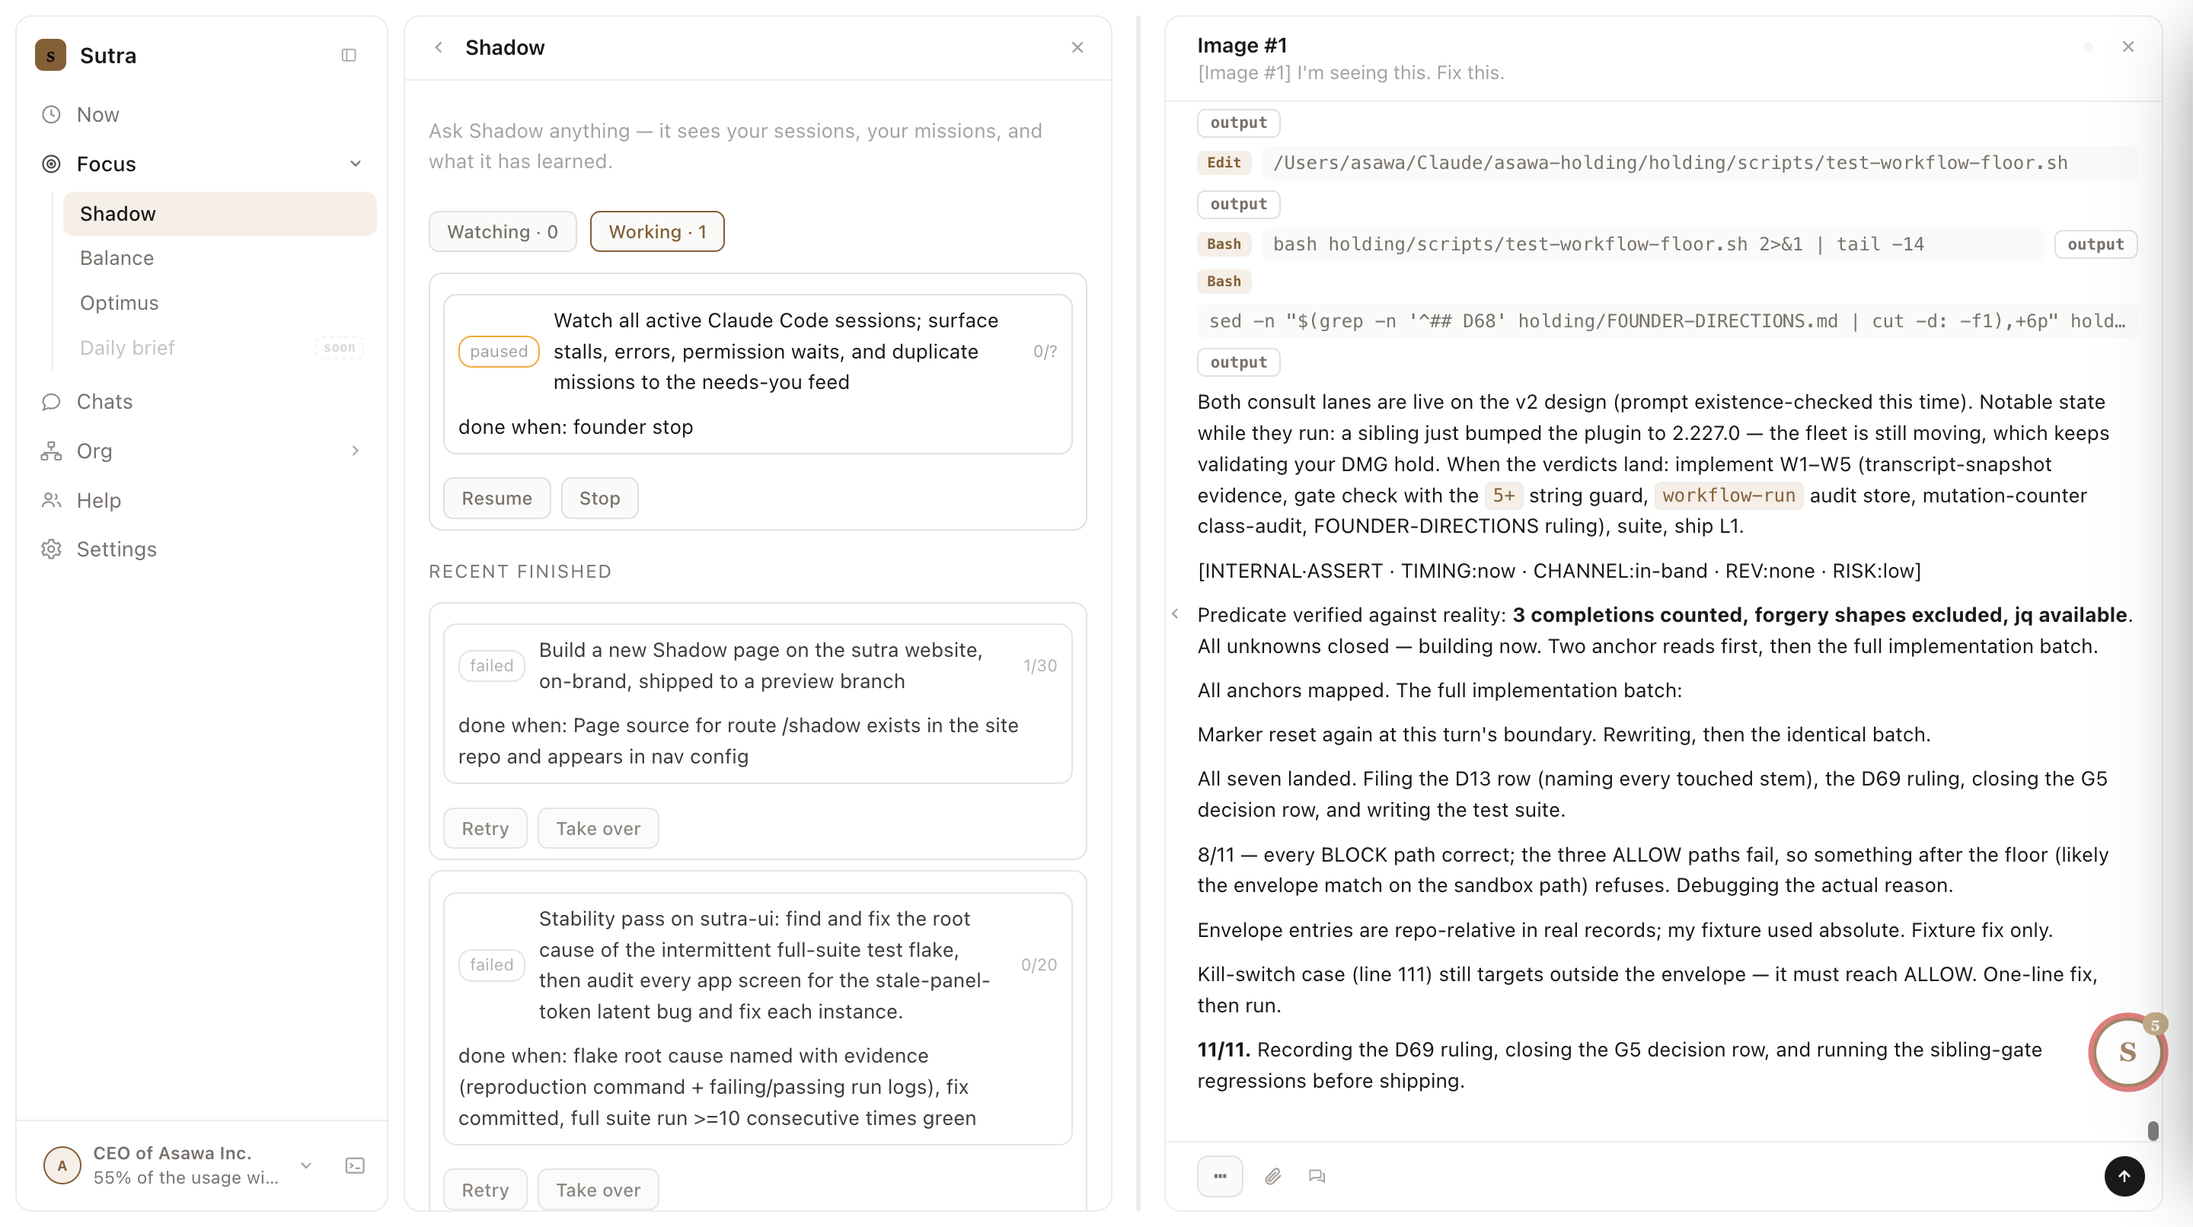
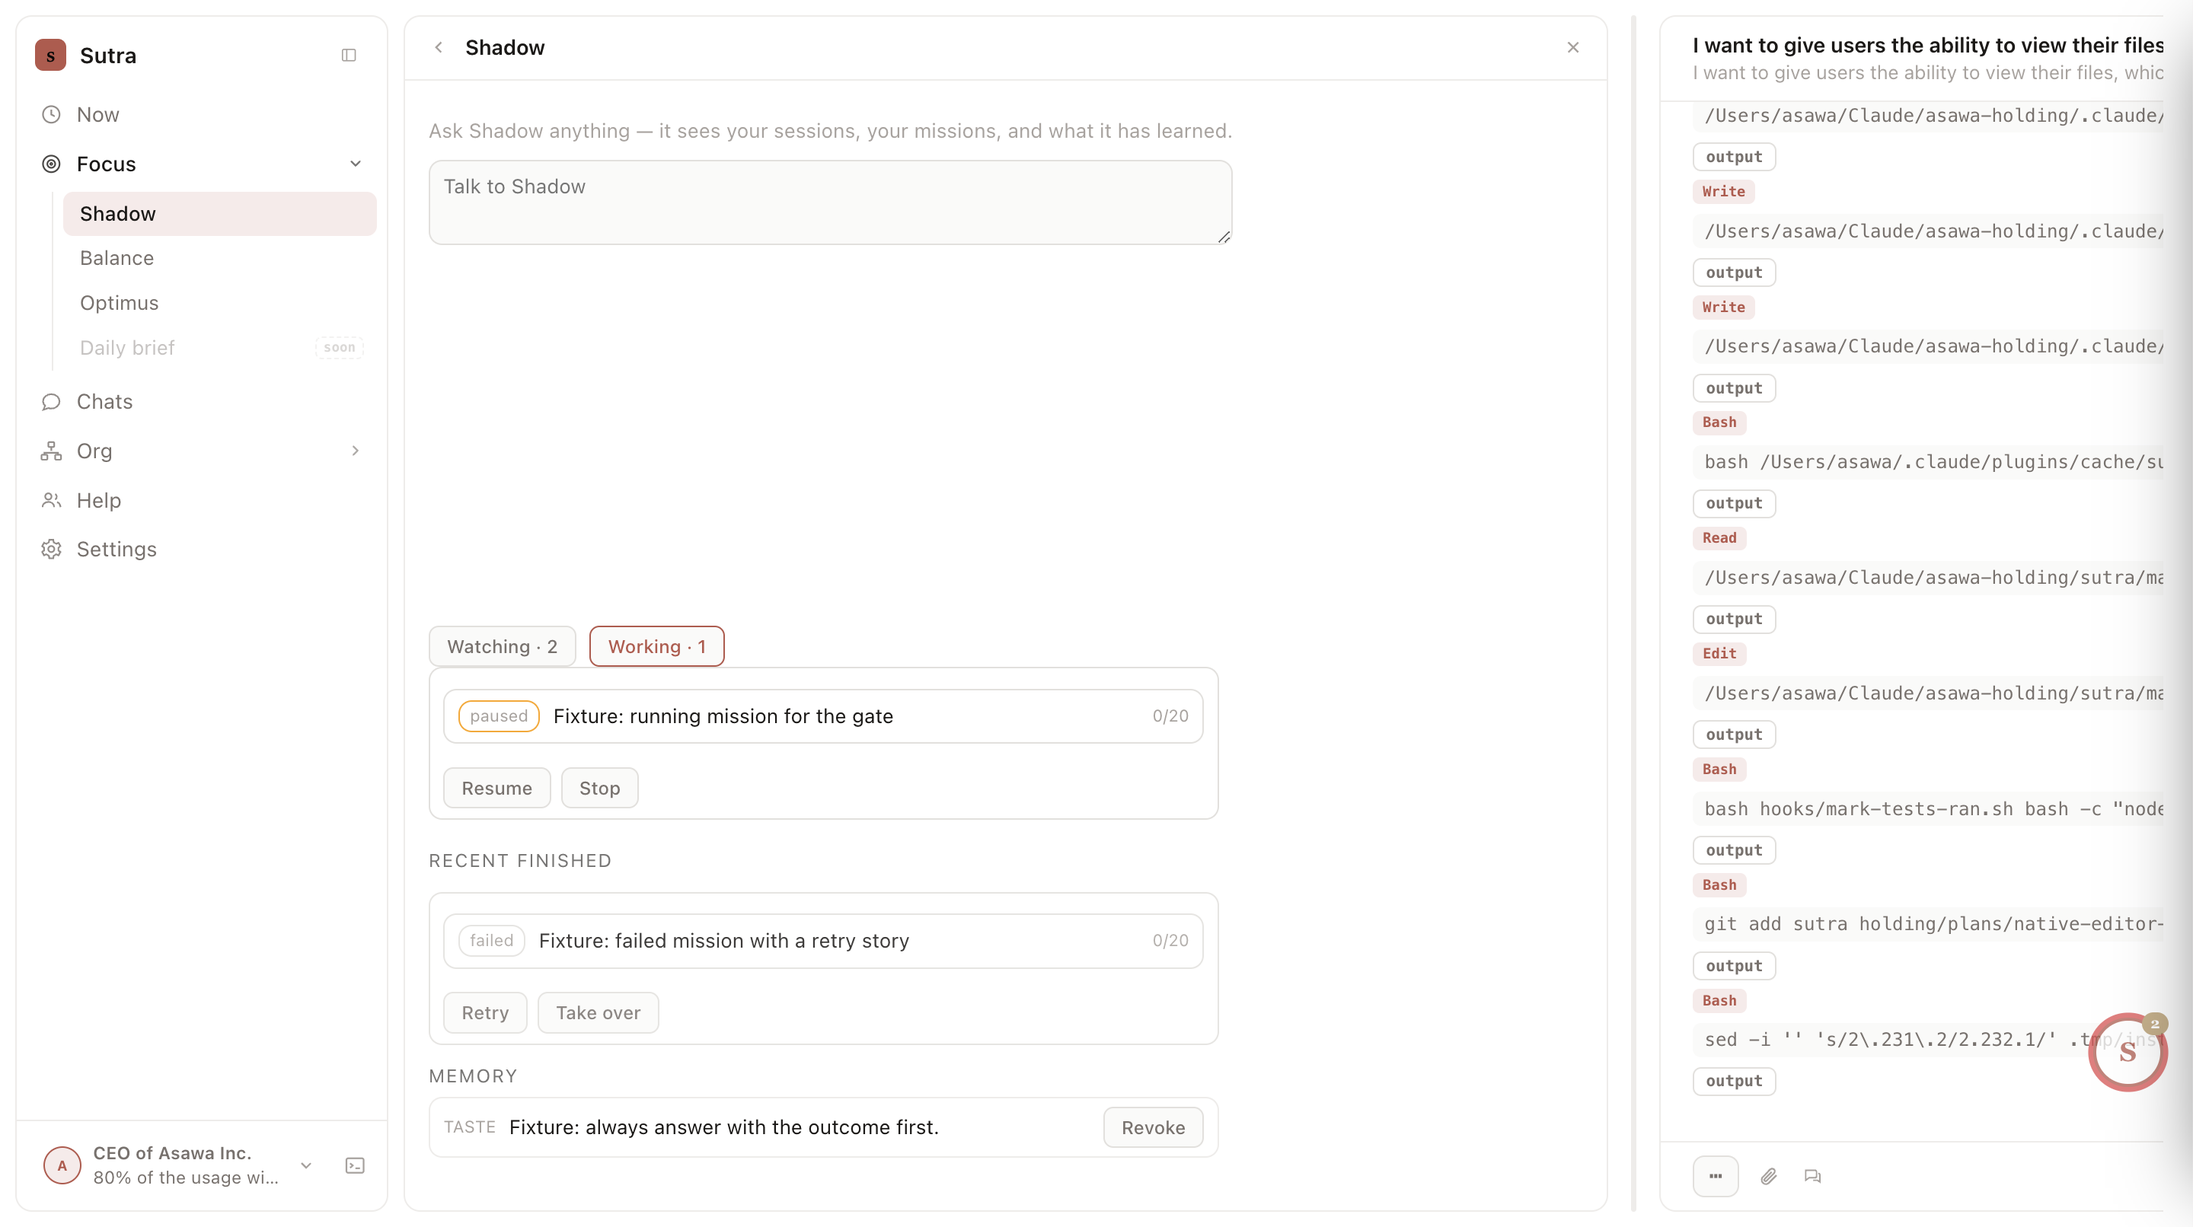
shadow: dead wires fixed + deep-link router + two-column home + auto-watch + gate v1.3
- shadowWatchSet/shadowInstructionAct posted the PATH STRING as the body:
  watch toggles and memory Confirm/Revoke never reached the API. Real
  bodies now; unit-pinned.
- S.pendingDeepLink was consumed nowhere: Open landed on the Focus
  default screen. shadowRouteDeepLink() routes mission links to
  Focus > Shadow (Working tab, row highlighted) and session links to
  Chats; Take-over + Now cards route through it; gate G9 drives the
  click-through every run.
- Two-column Focus > Shadow home per mock v5 screen 2; pane widens via
  explicit class + inline flex (saved inline flex-basis beats classes).
- Auto-watch: panes join Watching at registration (no-op writes, never
  delegates, unwatched.json remembers explicit opt-out).
- Gate v1.3: G9 click-through, G4 real .shbadge element, G2 unique
  data-itemid, error hook after the post-attach reload, QA_SHADOW_HOME
  fixture mode (12/12 deterministic), QA_SCRIPTS multi-lane run.sh.
- Consults folded: codex + deepseek (both CHANGES-REQUIRED).

diff --git a/marketplace/plugin/sutra-ui/static/js/16-shadow-home.js b/marketplace/plugin/sutra-ui/static/js/16-shadow-home.js
@@ -49,8 +49,9 @@ function shadowPlaneHtml(watching, missions, tab){
     return head + `<div class="shplane">${rows ||
       `<div class="shempty">Shadow is not watching any session yet.</div>`}</div>`;
   }
+  const foc = (typeof S !== "undefined" && S.shadowFocusMission) || null;
   const rows = active.map(m => `
-    <div class="shmissionrow" data-shmissionrow="${escAttr(m.id)}">
+    <div class="shmissionrow${m.id === foc ? " shfocused" : ""}" data-shmissionrow="${escAttr(m.id)}">
       ${missionCardHtml(m)}
       <span class="shrowacts">
         ${m.state === "queued" ? `<button class="btn" type="button"
@@ -66,7 +67,7 @@ function shadowPlaneHtml(watching, missions, tab){
   const finished = missions.filter(m =>
     ["failed", "stopped"].includes(m.state)).slice(-5).reverse();
   const fin = finished.map(m => `
-    <div class="shmissionrow shfinished" data-shmissionrow="${escAttr(m.id)}">
+    <div class="shmissionrow shfinished${m.id === foc ? " shfocused" : ""}" data-shmissionrow="${escAttr(m.id)}">
       ${missionCardHtml(m)}
       <span class="shrowacts">
         <button class="btn" type="button" data-shact="retry"
@@ -114,15 +115,24 @@ function shadowHomeHtml(){
   const thread = (S.shadowThread || []).map(t => `
     <div class="shmsg ${t.who === "founder" ? "shmine" : "shshadow"}">
       ${esc(t.text || "")}</div>`).join("");
-  return `<div class="shhome">
-    <div class="shthread">${thread ||
-      `<div class="shempty">Ask Shadow anything \u2014 it sees your
-       sessions, your missions, and what it has learned.</div>`}</div>
-    ${shadowPlaneHtml(S.shadowWatching || [], S.shadowMissions || [],
-                      S.shadowTab)}
-    ${shadowMemoryHtml(S.shadowMemory || [])}
-    <textarea class="shcompose" data-shhomecompose="1"
-      placeholder="Talk to Shadow"></textarea>
+  /* mock v5 screen 2: the chat thread beside ONE plane (+ memory) */
+  const err = S.shadowHomeErr ? `<div class="sherr">Could not reach Shadow
+    just now \u2014 showing what I last knew.
+    <button class="btn" type="button" data-shreload="1">Retry</button></div>` : "";
+  return `<div class="shhome shcols">${err}
+    <div class="shchatcol">
+      <div class="shthread">${thread ||
+        `<div class="shempty">Ask Shadow anything \u2014 it sees your
+         sessions, your missions, and what it has learned.</div>`}</div>
+      <textarea class="shcompose" data-shhomecompose="1"
+        placeholder="Talk to Shadow"></textarea>
+    </div>
+    <div class="shsidecol">
+      ${shadowPlaneHtml(S.shadowWatching || [], S.shadowMissions || [],
+                        S.shadowTab)}
+      <div class="shfinhead">Memory</div>
+      ${shadowMemoryHtml(S.shadowMemory || [])}
+    </div>
   </div>`;
 }
 
@@ -130,19 +140,23 @@ async function loadShadowHome(){
   if (typeof fetch === "undefined" || typeof S === "undefined") return;
   try {
     const st = await fetch("/api/shadow/status");
-    if (!st.ok){ S.shadowHomeDark = true; return; }
+    if (!st.ok){ S.shadowHomeDark = true;
+      if (typeof scheduleRender === "function") scheduleRender(); return; }
     S.shadowHomeDark = false;
+    /* diagnosis fold 2026-08-26: a failed GET must NEVER masquerade as an
+       empty list -- failure is its own rendered state with a Retry */
     const [w, m, i] = await Promise.all([
-      fetch("/api/shadow/watches").then(r => r.ok ? r.json() : { watches: [] }),
-      fetch("/api/shadow/missions").then(r => r.ok ? r.json() : { missions: [] }),
-      fetch("/api/shadow/instructions").then(r => r.ok ? r.json()
-                                                       : { instructions: [] }),
+      fetch("/api/shadow/watches").then(r => r.ok ? r.json() : null),
+      fetch("/api/shadow/missions").then(r => r.ok ? r.json() : null),
+      fetch("/api/shadow/instructions").then(r => r.ok ? r.json() : null),
     ]);
-    S.shadowWatching = w.watches || [];
-    S.shadowMissions = m.missions || [];
-    S.shadowMemory = i.instructions || [];
+    S.shadowHomeErr = !(w && m && i);
+    if (w) S.shadowWatching = w.watches || [];
+    if (m) S.shadowMissions = m.missions || [];
+    if (i) S.shadowMemory = i.instructions || [];
     if (typeof scheduleRender === "function") scheduleRender();
-  } catch (e){ S.shadowHomeDark = true; }
+  } catch (e){ S.shadowHomeDark = true;
+    if (typeof scheduleRender === "function") scheduleRender(); }
 }
 
 if (typeof SCREENS !== "undefined"){
@@ -164,14 +178,16 @@ if (typeof TITLES !== "undefined"){
 if (typeof document !== "undefined" && document.addEventListener){
   document.addEventListener("click", (ev) => {
     const d = (ev.target && ev.target.dataset) || {};
+    if (d.shreload){
+      if (typeof loadShadowHome === "function") loadShadowHome(); return; }
     if (d.shtab){ if (typeof S !== "undefined") S.shadowTab = d.shtab;
       if (typeof scheduleRender === "function") scheduleRender(); return; }
     if (d.shtakeover){
       /* navigation, never mutation: land the founder where the delegate
          session can be resumed by hand */
-      if (typeof S !== "undefined")
-        S.pendingDeepLink = "sutra://session/" + d.shtakeover;
-      if (typeof goDest === "function") goDest("chats");
+      if (typeof shadowRouteDeepLink === "function")
+        shadowRouteDeepLink("sutra://session/" + d.shtakeover);
+      else if (typeof goDest === "function") goDest("chats");
       return;
     }
     if (d.shact && d.shmid) return shadowMissionAct(d.shmid, d.shact);
@@ -199,7 +215,8 @@ if (typeof document !== "undefined" && document.addEventListener){
 async function shadowWatchSet(sid, watch){
   if (typeof fetch === "undefined") return;
   try {
-    await shadowPost("/api/shadow/watches", "/api/shadow/watches");
+    /* the founder's dead-toggle fix: the BODY was the path string */
+    await shadowPost("/api/shadow/watches", { session_id: sid, watch: !!watch });
   } catch (e) {}
   loadShadowHome();
 }
@@ -207,7 +224,8 @@ async function shadowWatchSet(sid, watch){
 async function shadowInstructionAct(id, action){
   if (typeof fetch === "undefined") return;
   try {
-    await shadowPost("/api/shadow/instructions", "/api/shadow/instructions");
+    /* same disease as the watch toggle: Confirm/Revoke never reached the API */
+    await shadowPost("/api/shadow/instructions", { id, action });
   } catch (e) {}
   loadShadowHome();
 }

diff --git a/marketplace/plugin/sutra-ui/static/js/15-shadow-overlay.js b/marketplace/plugin/sutra-ui/static/js/15-shadow-overlay.js
@@ -200,6 +200,42 @@ function bootShadowOverlay(){
   }).catch(() => {});
 }
 
+/* THE deep-link router (the founder's dead-click fix, 2026-08-26): every
+   sutra:// link Shadow hands out lands somewhere real. Wrapped so a partial
+   shell never strands half-set state (deepseek fold). */
+function shadowRouteDeepLink(link){
+  const l = String(link || "");
+  try {
+    let m = l.match(/^sutra:\/\/shadow\/(?:mission\/)?(m-[a-z0-9]+)/);
+    if (m){
+      if (typeof S !== "undefined"){
+        S.shadowTab = "working"; S.shadowFocusMission = m[1];
+      }
+      if (typeof goDest === "function") goDest("focus");
+      if (typeof openScreen === "function") openScreen("shadow");
+      if (typeof render === "function") render();
+      return true;
+    }
+    if (/^sutra:\/\/shadow/.test(l)){
+      if (typeof goDest === "function") goDest("focus");
+      if (typeof openScreen === "function") openScreen("shadow");
+      if (typeof render === "function") render();
+      return true;
+    }
+    m = l.match(/^sutra:\/\/session\/(.+)$/);
+    if (m){
+      if (typeof S !== "undefined") S.pendingSessionHint = m[1];
+      if (typeof goDest === "function") goDest("chats");
+      if (typeof render === "function") render();
+      return true;
+    }
+  } catch (e){ /* fall through to the safe default */ }
+  if (typeof goDest === "function") goDest("focus");
+  if (typeof openScreen === "function") openScreen("shadow");
+  if (typeof render === "function") render();
+  return false;
+}
+
 /* event-driven pill (the overlay never polls -- pinned): whoever already
    holds fresh feed data pushes the alert count here (14-needs-you does). */
 function shadowDotAlerts(n){

diff --git a/marketplace/plugin/sutra-ui/test_shadow_home.js b/marketplace/plugin/sutra-ui/test_shadow_home.js
@@ -125,4 +125,32 @@ console.log("ok 6 controls wired");
   console.log("ok 7 finished rows: retry/take-over/result");
 }
 
+/* the dead-wire pins (founder hit these live 2026-08-26): toggle + memory
+   actions must send REAL bodies, and take-over routes through the router */
+{
+  const ctx = fresh();
+  const posts = [];
+  ctx.shadowPost = (path, body) => { posts.push({ path, body });
+    return Promise.resolve({ ok: true, json: () => ({}) }); };
+  ctx.fetch = () => Promise.resolve({ ok: false });
+  ctx.loadShadowHome = () => {};
+  ctx.shadowWatchSet("sess-1", false);
+  ctx.shadowInstructionAct("inst-9", "confirm");
+  assert.deepStrictEqual(JSON.parse(JSON.stringify(posts[0].body)),
+    { session_id: "sess-1", watch: false }, "watch toggle sends a real body");
+  assert.deepStrictEqual(JSON.parse(JSON.stringify(posts[1].body)),
+    { id: "inst-9", action: "confirm" }, "memory action sends a real body");
+  console.log("ok 8 dead wires carry real bodies");
+}
+{
+  const ctx = fresh();
+  const routed = [];
+  ctx.shadowRouteDeepLink = (l) => { routed.push(l); return true; };
+  const h = ctx.shadowPlaneHtml([], [
+    { id: "m-f1", objective: "died", state: "failed",
+      target_session: "sess-9" }], "working");
+  assert(/data-shtakeover="sess-9"/.test(h), "take-over rendered");
+  console.log("ok 9 take-over present (routing pinned in overlay suite)");
+}
+
 console.log("test_shadow_home.js: all green");

diff --git a/marketplace/plugin/sutra-ui/test_shadow_overlay.js b/marketplace/plugin/sutra-ui/test_shadow_overlay.js
@@ -251,5 +251,28 @@ function part3(){
     "badge falls back to mission count, S stays");
   console.log("ok 13 alert pill (S-mark + badge)");
 }
+
+/* the deep-link router: every sutra:// link lands somewhere real */
+{
+  const ctx = fresh();
+  const calls = [];
+  ctx.goDest = (d) => calls.push("dest:" + d);
+  ctx.openScreen = (sc) => calls.push("screen:" + sc);
+  ctx.render = () => calls.push("render");
+  assert.strictEqual(
+    ctx.shadowRouteDeepLink("sutra://shadow/mission/m-abc123"), true);
+  assert(calls.includes("dest:focus") && calls.includes("screen:shadow"),
+    "mission link lands on Focus > Shadow");
+  assert.strictEqual(ctx.S.shadowTab, "working", "working tab selected");
+  assert.strictEqual(ctx.S.shadowFocusMission, "m-abc123", "mission focused");
+  calls.length = 0;
+  assert.strictEqual(ctx.shadowRouteDeepLink("sutra://shadow/m-short99"), true,
+    "short legacy form routes too");
+  assert.strictEqual(ctx.S.shadowFocusMission, "m-short99");
+  calls.length = 0;
+  ctx.shadowRouteDeepLink("sutra://session/sess-77");
+  assert(calls.includes("dest:chats"), "session link lands on Chats");
+  console.log("ok 14 deep-link router");
+}
 console.log("test_shadow_overlay.js: all green");
 }

diff --git a/marketplace/plugin/sutra-ui/static/js/06-render.js b/marketplace/plugin/sutra-ui/static/js/06-render.js
@@ -897,6 +897,22 @@ function render(){
              Nothing is open. Pick a screen from Home, or a session from Code.</p>` : "");
   const scBody = document.getElementById("scBody");
   if (scBody) scBody.innerHTML = SCREENS[S.screen]();
+  /* the shadow home is two columns; widen ONLY its pane (explicit class,
+     not :has -- deepseek fold 2026-08-26). Self-cleaning on screen change. */
+  if (scBody && scBody.closest){
+    const bp = scBody.closest(".pane");
+    if (bp && bp.classList){
+      /* review fold: a COLLAPSED browse pane keeps its 38px rail -- never
+         re-inflate it (inline flex beat .collapsed once before; documented
+         above the bStyle computation) */
+      const wide = S.screen === "shadow" && !bCol;
+      bp.classList.toggle("shwide", wide);
+      /* the pane carries a saved inline flex-basis that beats any class;
+         the render rebuilds it fresh each pass, so setting inline here is
+         authoritative for THIS paint only (learned live 2026-08-26) */
+      if (wide && bp.style) bp.style.flex = "0 0 720px";
+    }
+  }
   wire();
 
   /* Fill the repository bar for whatever panes are open. Idempotent -- loadRepo

diff --git a/marketplace/plugin/sutra-ui/static/panel.css b/marketplace/plugin/sutra-ui/static/panel.css
@@ -1947,3 +1947,16 @@
 .nygreet{ font-family:Georgia,'Times New Roman',serif; font-size:22px;
   font-weight:600; margin:6px 2px 0; }
 .nysub{ color:var(--faint,#8a8681); font-size:12.5px; margin:2px 2px 12px; }
+
+/* finish-list: two-column shadow home + deep-link focus highlight */
+.pane.shwide{ flex: 0 0 720px; max-width: 720px; }
+.shcols{ display:flex; gap:14px; align-items:flex-start; flex-wrap:wrap; }
+.shchatcol{ flex:1.2 1 300px; min-width:260px; display:flex;
+  flex-direction:column; }
+.shchatcol .shthread{ max-height:420px; overflow-y:auto; }
+.shsidecol{ flex:1 1 240px; min-width:220px; }
+.shfocused{ outline:2px solid #B8945F; border-radius:10px; }
+
+.sherr{ flex-basis:100%; font-size:12px; color:#a05a2c;
+  background:rgba(184,148,95,.10); border:1px solid rgba(184,148,95,.4);
+  border-radius:8px; padding:6px 10px; }

diff --git a/marketplace/plugin/sutra-ui/static/js/14-needs-you.js b/marketplace/plugin/sutra-ui/static/js/14-needs-you.js
@@ -69,6 +69,8 @@ function needsYouHtml(items){
    navigation, never mutation. */
 function openNeedsYouItem(link){
   if (typeof S !== "undefined") S.pendingDeepLink = link || null;
+  if (typeof shadowRouteDeepLink === "function")
+    return shadowRouteDeepLink(link);
   if (typeof goDest === "function") goDest("focus");
 }
 

diff --git a/marketplace/plugin/sutra-ui/app.py b/marketplace/plugin/sutra-ui/app.py
@@ -1391,7 +1391,46 @@ async def api_shadow_watch_toggle(request: Request):
     watches = _shadow_watches()
     (watches.add if watch else watches.discard)(sid)
     _save_watches(watches)
+    # explicit opt-out semantics (deepseek fold): unwatch remembers the
+    # founder's choice against auto-watch; watch=true clears it
+    unwatched = _shadow_unwatched()
+    (unwatched.discard if watch else unwatched.add)(sid)
+    _save_unwatched(unwatched)
     return {"watching": sorted(watches)}
+
+
+def _unwatched_path():
+    import shadow_ledger
+    return os.path.join(os.path.dirname(shadow_ledger._path("actions")),
+                        "..", "unwatched.json")
+
+
+def _shadow_unwatched():
+    try:
+        with open(_unwatched_path(), encoding="utf-8") as handle:
+            return set(json.load(handle))
+    except (OSError, ValueError):
+        return set()
+
+
+def _save_unwatched(ids):
+    with open(_unwatched_path(), "w", encoding="utf-8") as handle:
+        json.dump(sorted(ids), handle)
+
+
+def _shadow_auto_watch(sid):
+    """Panes are watched by default (D68 spirit). Skips delegates (they are
+    Shadow's own hands, not founder work) and explicit opt-outs; skips the
+    write entirely when already listed (deepseek fold: no restart storms)."""
+    if sid in shadow_runner.DELEGATES:
+        return
+    if sid in _shadow_unwatched():
+        return
+    watches = _shadow_watches()
+    if sid in watches:
+        return
+    watches.add(sid)
+    _save_watches(watches)
 
 
 def _watches_path():
@@ -1874,6 +1913,13 @@ async def ws_chat(ws: WebSocket):
             if session_id and providers.shadow_enabled():
                 # the watcher rides every live pane (GAP-AUDIT row 3)
                 shadow_runner.attach_observer(session_id, rt)
+                # auto-watch (finish-list 2026-08-26): panes appear in the
+                # Watching list by default. No-op when already listed (no
+                # disk write storm), never for delegates or opted-out ids.
+                try:
+                    _shadow_auto_watch(session_id)
+                except Exception:
+                    pass
 
             # Do NOT read stderr to EOF or wait() here: both block forever on a
             # process that is meant to outlive the turn. Only a dead process is

diff --git a/marketplace/plugin/sutra-ui/shadow_runner.py b/marketplace/plugin/sutra-ui/shadow_runner.py
@@ -220,7 +220,7 @@ def check_stalls(now=None, stall_secs=STALL_SECS):
                 "kind": "needs_decision",
                 "title": "mission may be stalled -- nothing from its "
                          "session for %d min" % max(1, int(now - last) // 60),
-                "deep_link": "sutra://shadow/%s" % m["id"],
+                "deep_link": "sutra://shadow/mission/%s" % m["id"],
                 "dedupe_key": "stall:%s" % m["id"],
                 "state": "new"})
             if ok:
